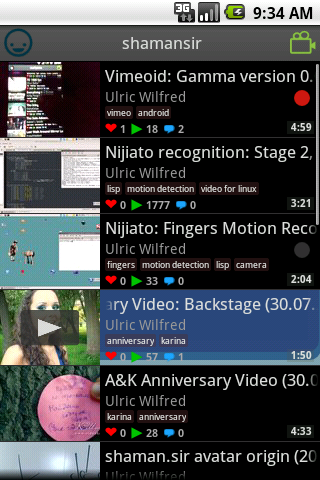
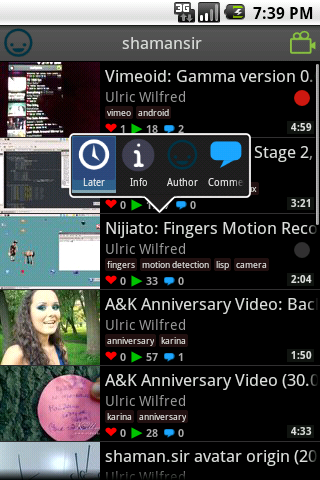
working on watch later

diff --git a/apk/src/org/vimeoid/activity/user/list/VideosActivity.java b/apk/src/org/vimeoid/activity/user/list/VideosActivity.java
@@ -3,12 +3,15 @@ package org.vimeoid.activity.user.list;
 import java.util.HashSet;
 import java.util.Set;
 
+import net.londatiga.android.QActionItem;
 import net.londatiga.android.QuickAction;
+import net.londatiga.android.QActionItem.QActionClickListener;
 
 import org.json.JSONException;
 import org.json.JSONObject;
 import org.vimeoid.R;
 import org.vimeoid.activity.base.ApiPagesReceiver;
+import org.vimeoid.activity.user.ApiTask;
 import org.vimeoid.activity.user.ItemsListActivity;
 import org.vimeoid.adapter.JsonObjectsAdapter;
 import org.vimeoid.adapter.user.VideosListAdapter;
@@ -18,9 +21,11 @@ import org.vimeoid.connection.advanced.Methods;
 import org.vimeoid.dto.advanced.PagingData;
 import org.vimeoid.dto.advanced.Video;
 import org.vimeoid.util.ApiParams;
+import org.vimeoid.util.Dialogs;
 import org.vimeoid.util.Invoke;
 import org.vimeoid.util.PagingData_;
 
+import android.content.res.Resources;
 import android.os.Bundle;
 import android.view.View;
 
@@ -50,23 +55,20 @@ public class VideosActivity extends ItemsListActivity<Video> {
     private final VideosIdsReceiver likesReceiver;
     private final VideosIdsReceiver watchLatersReceiver;
     
-    //private String[] watchLaters;
-    //private String[] likes;
-    
     public VideosActivity() {
         super();
         
         likesReceiver = new VideosIdsReceiver() {
             @Override public void onComplete() {
                 ((VideosListAdapter)getAdapter()).updateLikes(videosIds);
-                onContentChanged();
+                //onContentChanged();
             }            
         };
         
         watchLatersReceiver = new VideosIdsReceiver() {
             @Override public void onComplete() {
                 ((VideosListAdapter)getAdapter()).updateWatchLaters(videosIds);
-                onContentChanged();
+                //onContentChanged();
             }            
         };
     }
@@ -80,12 +82,10 @@ public class VideosActivity extends ItemsListActivity<Video> {
         // check if fits period
         secondaryTasks.addListTask(GET_LIKES_TASK, Methods.videos.getLikes, new ApiParams().add("user_id", currentUserId)
         		                                                                           .add("sort", currentSortType.toString()), 
-        		                                                            likesReceiver, 3, 25);
+        		                                                            likesReceiver, 3, 30);
         secondaryTasks.addListTask(GET_WATCHSLATER_TASK, Methods.albums.getWatchLater, new ApiParams().add("user_id", currentUserId)
                                                                                                       .add("sort", currentSortType.toString()), 
-                                                                            watchLatersReceiver, 3, 25);
-        
-        // TODO: run this tasks manually, ask more if required
+                                                                            watchLatersReceiver, 3, 30);
         
         super.onCreate(savedInstanceState);
     }
@@ -102,30 +102,65 @@ public class VideosActivity extends ItemsListActivity<Video> {
     }
     
     @Override
-    public void onSecondaryTaskPerfomed(int id, JSONObject result) throws JSONException {
-        // TODO: pass watchLaters and Likes to adapter
-    }
-    
-    @Override
     protected void onItemSelected(Video video) { 
         Invoke.User_.selectVideo(this, video);
     }
     
     @Override
-    protected QuickAction createQuickActions(Video item, View v) {
-        QuickAction qa = new QuickAction(v);
-        qa.addActionItem("Play", getResources().getDrawable(R.drawable.play));
-        qa.addActionItem("Face", getResources().getDrawable(R.drawable.contact));
-        qa.addActionItem("Jagagaga", getResources().getDrawable(R.drawable.video));
-        qa.addActionItem("Trace", getResources().getDrawable(R.drawable.album));
-        qa.addActionItem("Author", getResources().getDrawable(R.drawable.channel));
-        qa.addActionItem("Later", getResources().getDrawable(R.drawable.watchlater));
-        /*qa.addActionItem("Video", getResources().getDrawable(R.drawable.video));
-        qa.addActionItem("Info", getResources().getDrawable(R.drawable.info));
-        qa.addActionItem("Later", getResources().getDrawable(R.drawable.watchlater));
-        qa.addActionItem("Gegegegegege", getResources().getDrawable(R.drawable.channel));
-        qa.addActionItem("Two words", getResources().getDrawable(R.drawable.channel)); */
-        /*qa.show();*/
+    protected QuickAction createQuickActions(final int position, final Video video, View view) {
+        // TODO: add ability to watch albums / channels where video located
+        final Resources resources = getResources();
+        final VideosListAdapter adapter = ((VideosListAdapter)getAdapter());
+        
+        QuickAction qa = new QuickAction(view);
+        qa.addActionItem(getString(R.string.qa_later), resources.getDrawable(video.isWatchLater 
+                                                                             ? R.drawable.watchlater_white 
+                                                                             : R.drawable.watchlater_white_not), 
+            new QActionClickListener() {            
+                @Override public void onClick(View v, final QActionItem item) {
+                    new ApiTask(video.isWatchLater 
+                                ? Methods.albums.removeFromWatchLater 
+                                : Methods.albums.addToWatchLater) {
+                        
+                        @Override
+                        public void onAnswerReceived(JSONObject jsonObj) throws JSONException {
+                            video.isWatchLater = !video.isWatchLater;
+                            final Video changedVideo = adapter.switchWatchLater(position);
+                            Dialogs.makeToast(VideosActivity.this, getString(changedVideo.isWatchLater 
+                                                                             ? R.string.added_to_watchlater
+                                                                             : R.string.removed_from_watchlater));
+                            item.setIcon(resources.getDrawable(changedVideo.isWatchLater 
+                                                               ? R.drawable.watchlater_white 
+                                                               : R.drawable.watchlater_white_not));
+                            item.invalidate();
+                        }
+                        
+                        @Override
+                        protected void onAnyError(Exception e, String message) {
+                            Dialogs.makeToast(VideosActivity.this, R.string.failed_to_add_watch_later + " : " + message);
+                        }
+                        
+                    };
+                }
+            });
+        qa.addActionItem(getString(R.string.qa_info), getResources().getDrawable(R.drawable.info), 
+                new QActionClickListener() {            
+                    @Override public void onClick(View v, QActionItem item) {
+                        Invoke.User_.selectVideo(VideosActivity.this, video);
+                    }
+                });
+        qa.addActionItem(getString(R.string.qa_author), getResources().getDrawable(R.drawable.contact), 
+                new QActionClickListener() {            
+                    @Override public void onClick(View v, QActionItem item) {
+                        Invoke.User_.selectUploader(VideosActivity.this, video);
+                    }
+                });
+        qa.addActionItem(getString(R.string.qa_comments), getResources().getDrawable(R.drawable.comment), 
+                new QActionClickListener() {            
+                    @Override public void onClick(View v, QActionItem item) {
+                        Invoke.User_.selectCommentsOf(VideosActivity.this, video);
+                    }
+                });
         return qa;
     };
     

diff --git a/apk/src/org/vimeoid/adapter/user/VideosListAdapter.java b/apk/src/org/vimeoid/adapter/user/VideosListAdapter.java
@@ -53,13 +53,16 @@ public class VideosListAdapter extends JsonObjectsAdapter<Video> implements OnIt
     private View lastSelected; 
     private ThumbClickListener thumbClickListener;
     
+    private final ListView listView;
+    
     public VideosListAdapter(Context context, LayoutInflater inflater, ListView listView) {
         super(Video.FieldsKeys.MULTIPLE_KEY);
         
         this.layoutInflater = inflater;        
         this.imageLoader = new ImageLoader(context, R.drawable.thumb_loading_small, R.drawable.video_unknown_item);
         
-        listView.setOnItemSelectedListener(this);
+        this.listView = listView;        
+        this.listView.setOnItemSelectedListener(this);
     }
     
     @Override
@@ -97,15 +100,6 @@ public class VideosListAdapter extends JsonObjectsAdapter<Video> implements OnIt
         imageLoader.displayImage(video.thumbnails.small.url, itemHolder.ivThumb);
               
         itemHolder.ivPlay.setVisibility(View.INVISIBLE);
-        /* itemHolder.ivPlay.setOnFocusChangeListener(new OnFocusChangeListener() {
-			@Override public void onFocusChange(View v, boolean hasFocus) {
-				Log.d("VLA", "Thumb at " + position + " is focused: " + hasFocus);
-				//ivPlay.setVisibility(hasFocus ? View.VISIBLE : View.GONE);
-				ImageView iv = (ImageView)v.findViewById(R.id.playVideo);
-				iv.setVisibility(hasFocus ? View.VISIBLE : View.INVISIBLE);
-			}
-			
-		}); */
         itemHolder.ivThumb.setOnClickListener(new OnClickListener() {
 			@Override public void onClick(View v) {
 				//Log.d("VLA", "Thumb at " + position + " is clicked");
@@ -183,6 +177,7 @@ public class VideosListAdapter extends JsonObjectsAdapter<Video> implements OnIt
         for (Video video: getItems()) {
             if (videosList.contains(video.getId())) video.isLike = true;
         }
+        listView.invalidateViews();        
     }
 
     public void updateWatchLaters(Set<Long> videosIds) {
@@ -191,6 +186,14 @@ public class VideosListAdapter extends JsonObjectsAdapter<Video> implements OnIt
         for (Video video: getItems()) {
             if (videosList.contains(video.getId())) video.isWatchLater = true;
         }
+        listView.invalidateViews();
+    }
+    
+    public Video switchWatchLater(int position) {
+        final Video subject = (Video)getItem(position);
+        subject.isWatchLater = !subject.isWatchLater;
+        listView.getChildAt(position).invalidate();
+        return subject;
     }
     
     public void setThumbClickListener(ThumbClickListener listener) {
@@ -213,5 +216,6 @@ public class VideosListAdapter extends JsonObjectsAdapter<Video> implements OnIt
         
         ViewGroup vgMarkers;
     }
+
 
 }

diff --git a/apk/src/org/vimeoid/activity/Welcome.java b/apk/src/org/vimeoid/activity/Welcome.java
@@ -12,9 +12,6 @@ import android.view.View;
 import android.view.View.OnClickListener;
 import android.widget.Button;
 
-import net.londatiga.android.QActionItem;
-import net.londatiga.android.QuickAction;
-import net.londatiga.android.QActionItem.QActionClickListener;
 import oauth.signpost.exception.OAuthCommunicationException;
 import oauth.signpost.exception.OAuthException;
 import oauth.signpost.exception.OAuthExpectationFailedException;
@@ -62,9 +59,9 @@ public class Welcome extends Activity {
         
         setContentView(R.layout.welcome);
         
-        /* if (VimeoApi.weKnowUser(this)) {
+        if (VimeoApi.weKnowUser(this)) {
             tryToEnterAsUser();
-        } else { */ 
+        } else {
             
             final Button enterButton = (Button) findViewById(R.id.enterButton);
             enterButton.setOnClickListener(new OnClickListener() {
@@ -76,30 +73,12 @@ public class Welcome extends Activity {
             final Button guestButton = (Button) findViewById(R.id.guestButton);
             guestButton.setOnClickListener(new OnClickListener() {
                 @Override public void onClick(View v) {
-                    
-                    QuickAction qa = new QuickAction(v);
-                    qa.addActionItem("Play", getResources().getDrawable(R.drawable.play));                    
-                    qa.addActionItem("Face", getResources().getDrawable(R.drawable.contact));                    
-                    qa.addActionItem("Jagagaga", getResources().getDrawable(R.drawable.video));
-                    qa.addActionItem("Trace", getResources().getDrawable(R.drawable.album));
-                    qa.addActionItem("Author", getResources().getDrawable(R.drawable.channel));
-                    qa.addActionItem("Later", getResources().getDrawable(R.drawable.watchlater_white_not), 
-                            new QActionClickListener() {                                
-                                @Override public void onClick(View v, QActionItem item) {
-                                    Log.d(TAG, "watchlater clicked");
-                                    item.setIcon(getResources().getDrawable(R.drawable.watchlater_white));
-                                    item.setTitle("aaaa");
-                                    item.invalidate();
-                                }
-                            });
-                    qa.show();
-                    
-                    // enterAsGuest();
+                    enterAsGuest();
                 }
                 
             });
             
-        // }
+        }
         
     }
     

diff --git a/apk/src/org/vimeoid/activity/user/ItemsListActivity.java b/apk/src/org/vimeoid/activity/user/ItemsListActivity.java
@@ -117,12 +117,12 @@ public abstract class ItemsListActivity<ItemType extends AdvancedItem> extends
         super.onCreateContextMenu(menu, v, menuInfo);
         
         final AdapterView.AdapterContextMenuInfo info = extractMenuInfo(menuInfo);
-        createQuickActions(getItem(info.position), info.targetView).show();
+        createQuickActions(info.position, getItem(info.position), info.targetView).show();
     }    
        
     public void onSecondaryTaskPerfomed(int id, JSONObject result)  throws JSONException { }
 
-    protected abstract QuickAction createQuickActions(ItemType item, View v);
+    protected abstract QuickAction createQuickActions(int position, ItemType item, View v);
    
     @Override
     public boolean onOptionsItemSelected(MenuItem item) {

diff --git a/apk/src/org/vimeoid/connection/advanced/Methods.java b/apk/src/org/vimeoid/connection/advanced/Methods.java
@@ -164,6 +164,7 @@ public class Methods {
         public static final String getContactsUploaded = PREFIX + "getContactsUploaded";
         public static final String getInfo = PREFIX + "getInfo";
         public static final String getLikes = PREFIX + "getLikes";
+        public static final String getLikers = PREFIX + "getLikers";        
         public static final String getSubscriptions = PREFIX + "getSubscriptions";
         public static final String getThumbnailUrls = PREFIX + "getThumbnailUrls";
         public static final String getUploaded = PREFIX + "getUploaded";

diff --git a/apk/src/org/vimeoid/activity/base/ApiTask_.java b/apk/src/org/vimeoid/activity/base/ApiTask_.java
@@ -21,7 +21,7 @@ import android.os.AsyncTask;
  */
 public abstract class ApiTask_<Params, Result> extends AsyncTask<Params, Void, Result> {
     
-    protected abstract void onAnyError(Exception e, String message);
+    protected void onAnyError(Exception e, String message) {};
     protected abstract void onAnswerReceived(Result result) throws Exception;
     // protected void ensureConnected(); // TODO: use this method
     

diff --git a/apk/src/org/vimeoid/util/Invoke.java b/apk/src/org/vimeoid/util/Invoke.java
@@ -297,6 +297,11 @@ public final class Invoke {
             
         }
 
+        public static void selectCommentsOf(Activity parent, org.vimeoid.dto.advanced.Video video) {
+            // TODO Auto-generated method stub
+            
+        }
+
     }
     
 }
